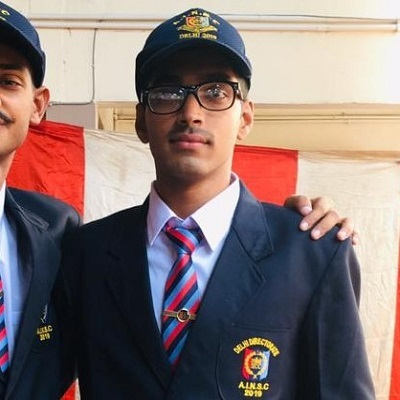
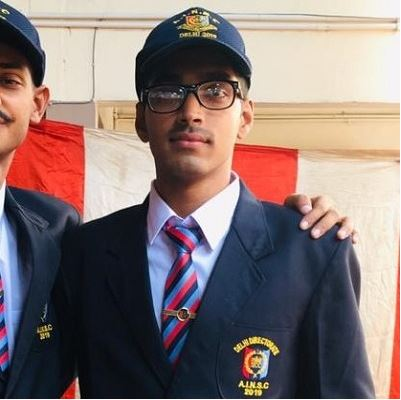
reduce

diff --git a/camp_reports/rdc.html b/camp_reports/rdc.html
@@ -212,8 +212,8 @@ This camp has surely taught me a lot and these memories will always secure a spe
           <div class="col-lg-6 col-md-6 portfolio-item filter-app wow fadeInUp">
             <div class="portfolio-wrap">
               <figure>
-                <img src="rdc3.jpeg" class="img-fluid" alt="">
-                <a href="rdc3.jpeg" data-lightbox="portfolio" data-title="App 1" class="link-preview" title="Preview"><i class="ion ion-eye"></i></a>
+                <img src="rdc3.jpg" class="img-fluid" alt="">
+                <a href="rdc3.jpg" data-lightbox="portfolio" data-title="App 1" class="link-preview" title="Preview"><i class="ion ion-eye"></i></a>
               </figure>
             </div>
           </div>
